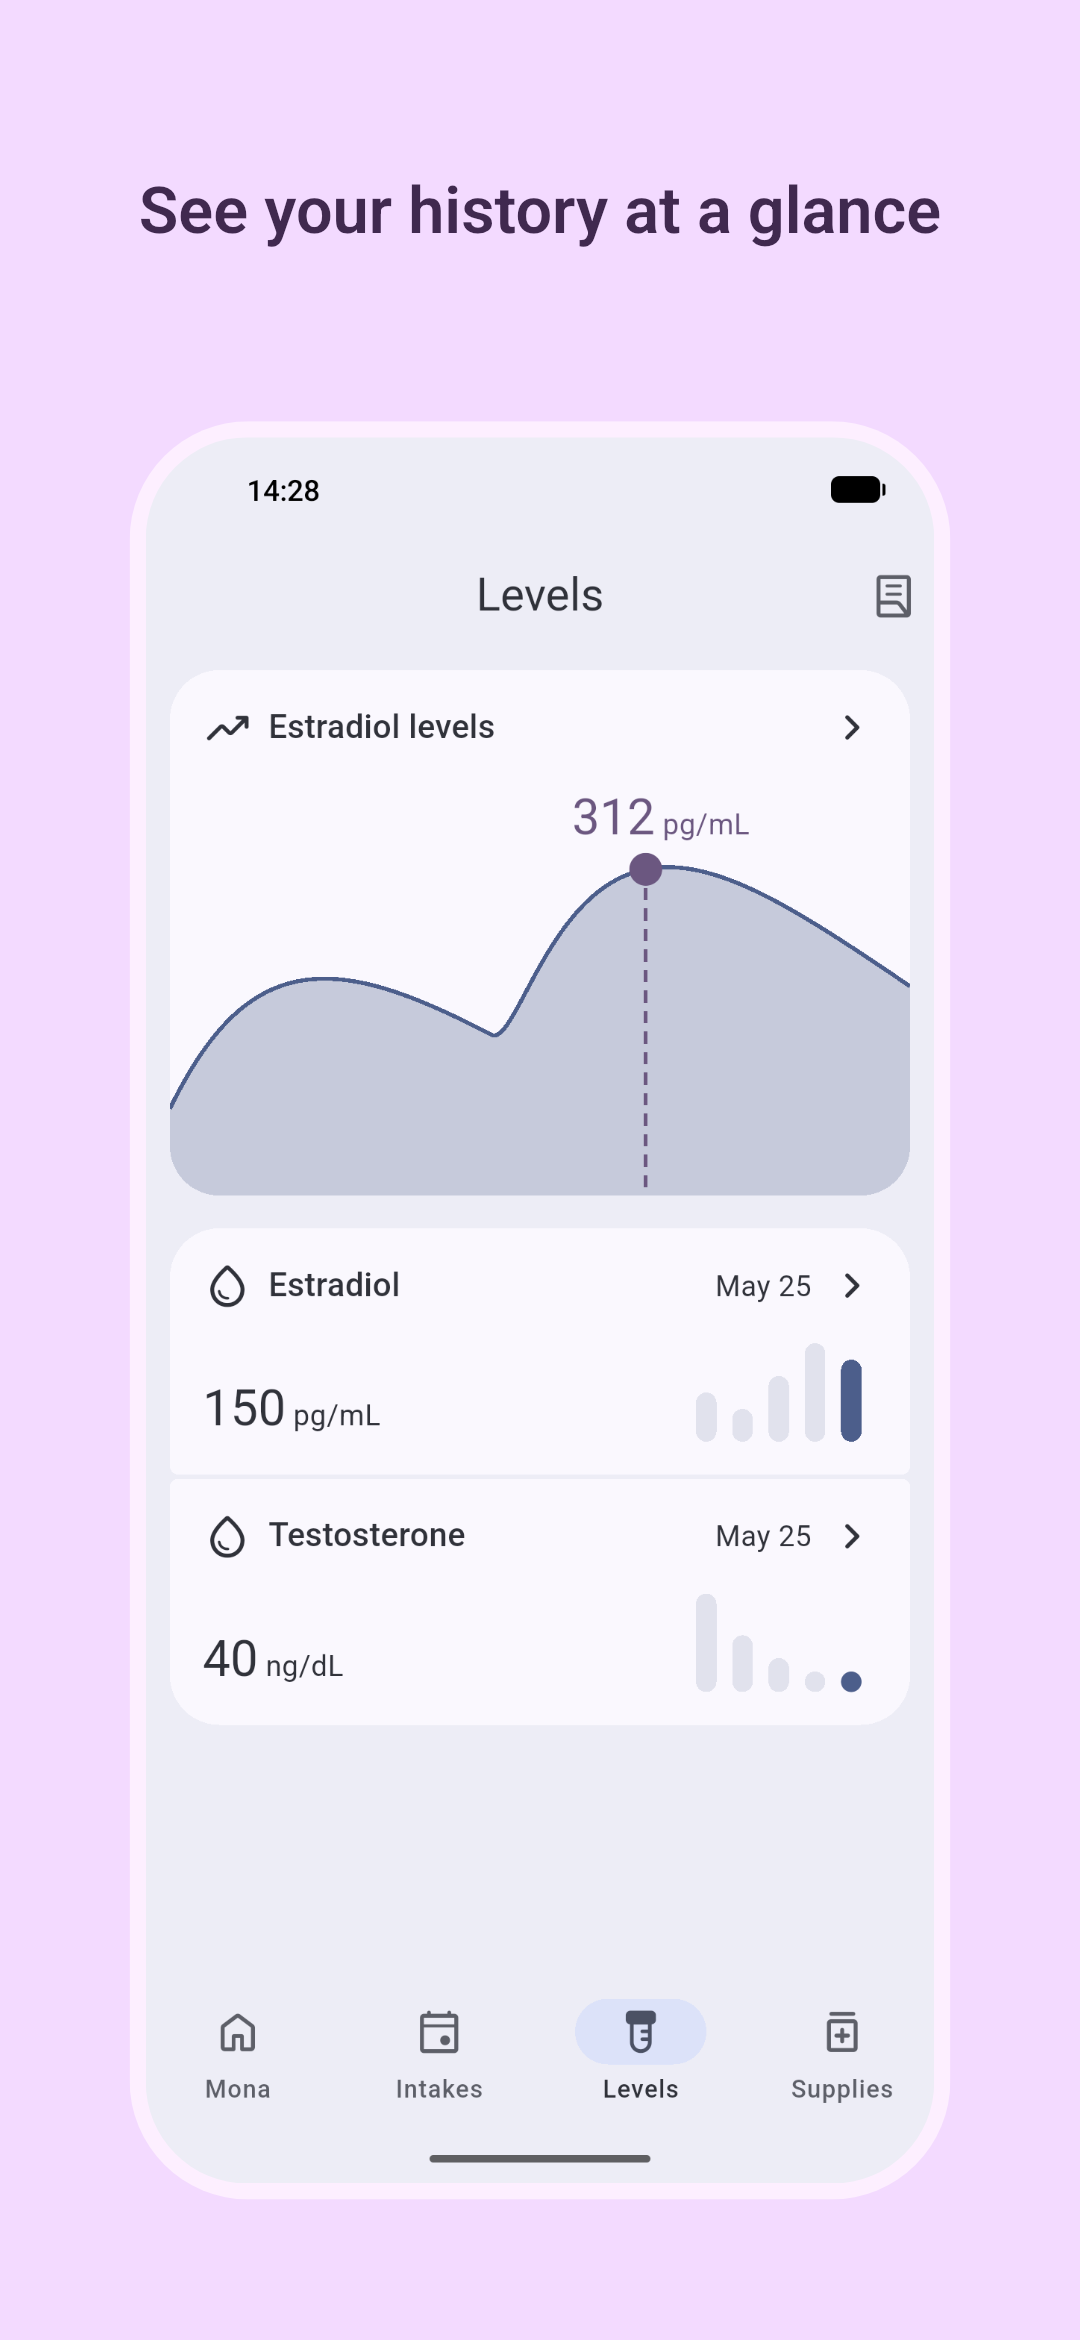
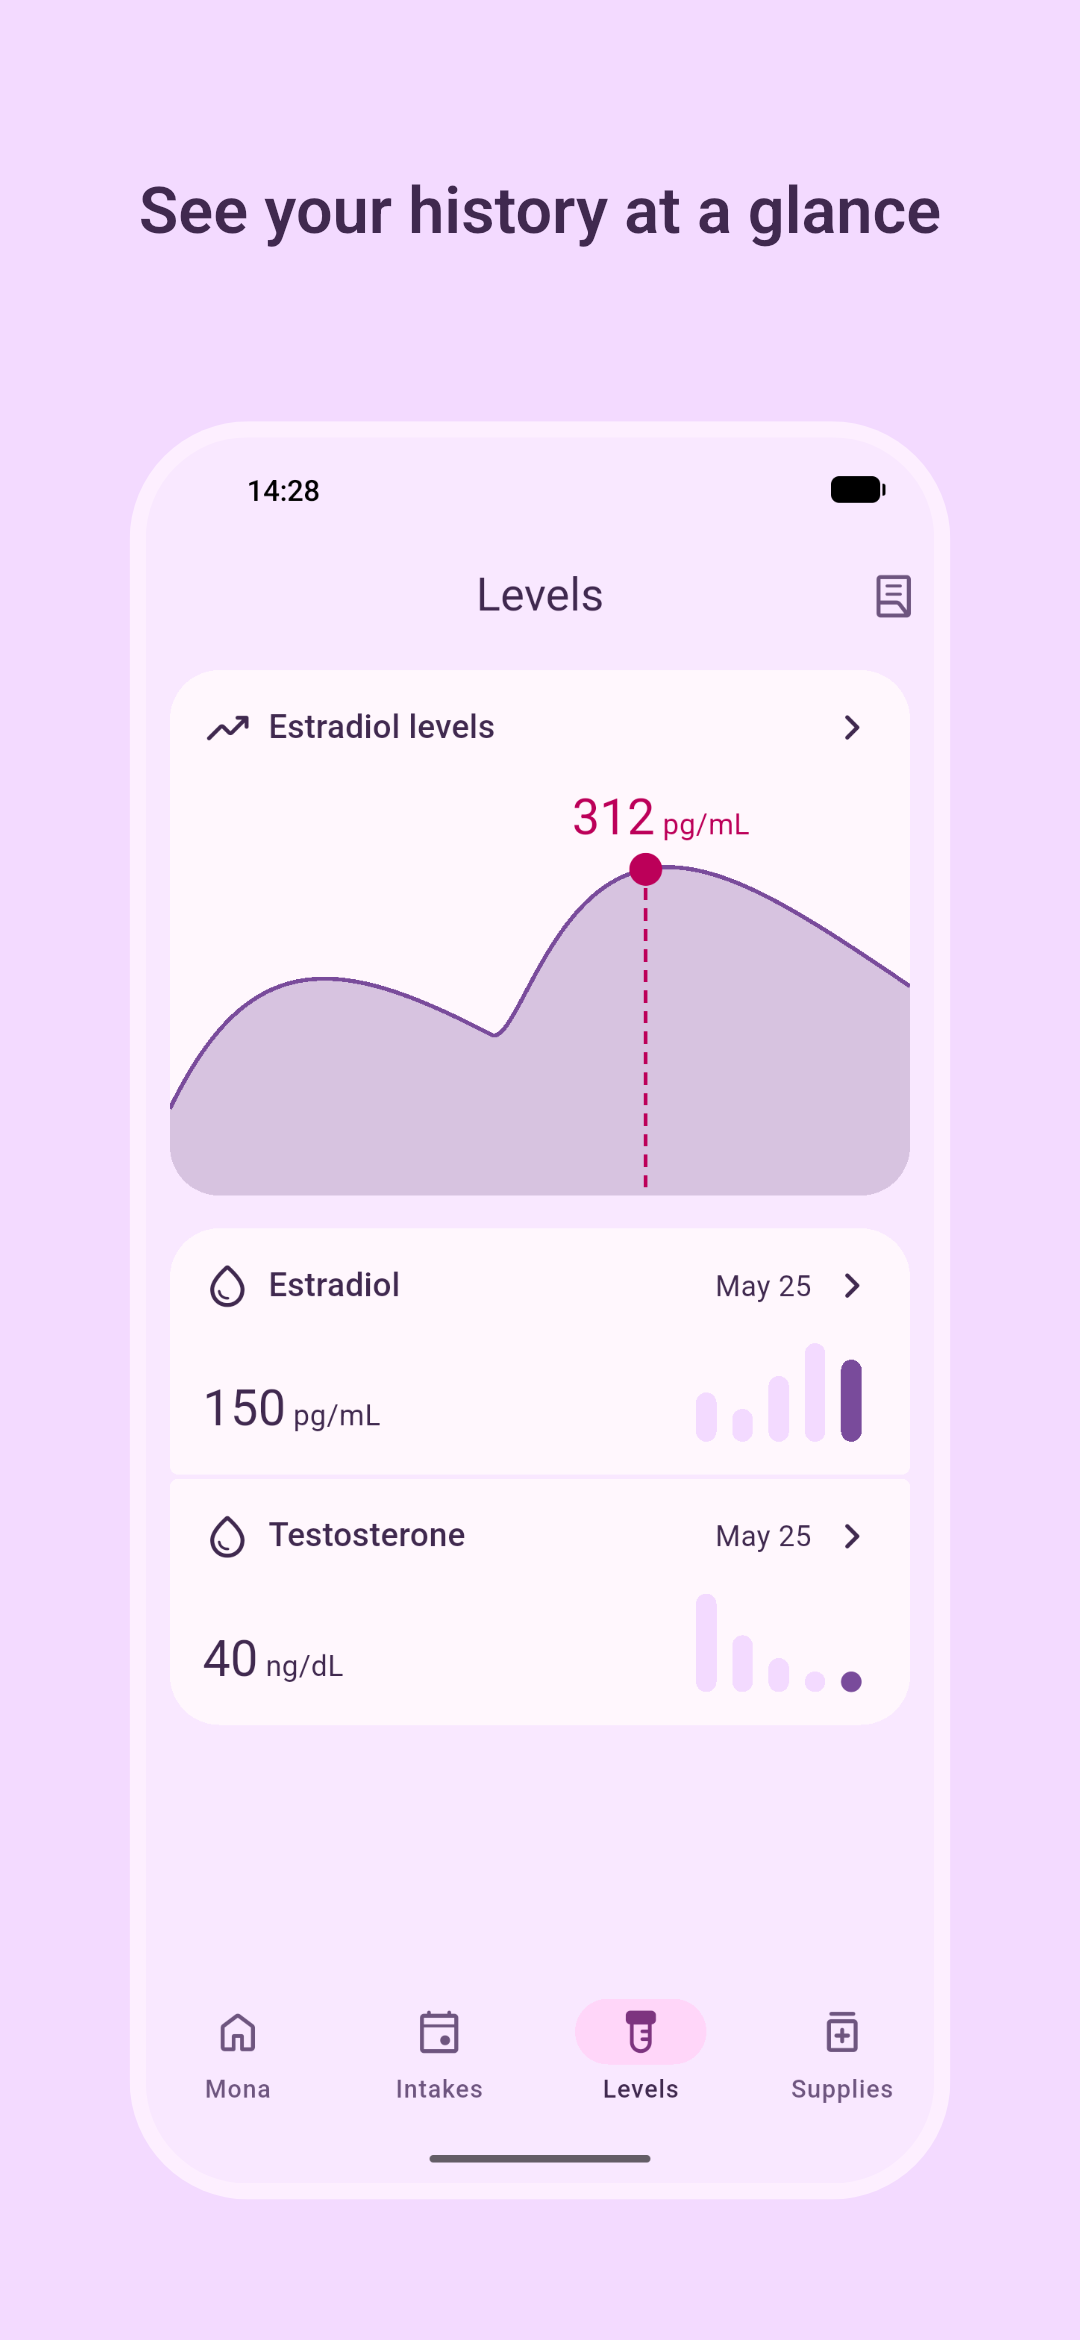
fix: force default colors for screenshots

diff --git a/lib/app.dart b/lib/app.dart
@@ -17,6 +17,9 @@ import 'package:mona/theme/material_ui_theme.dart';
 import 'package:provider/provider.dart';
 import 'ui/views/main_page.dart';
 
+const bool _forceDefaultColors = bool.fromEnvironment(
+    'SCREENSHOT_DEFAULT_COLORS'); // avoid dynamic colors when generating store screenshots
+
 class MonaApp extends StatefulWidget {
   const MonaApp({super.key});
 
@@ -117,8 +120,8 @@ class _MonaAppState extends State<MonaApp> with WidgetsBindingObserver {
     return DynamicColorBuilder(
       builder: (ColorScheme? lightDynamic, ColorScheme? darkDynamic) {
         final themes = context.read<AppThemeProvider>().buildThemeData(
-              systemLight: lightDynamic,
-              systemDark: darkDynamic,
+              systemLight: _forceDefaultColors ? null : lightDynamic,
+              systemDark: _forceDefaultColors ? null : darkDynamic,
             );
         return MaterialApp(
           title: 'Mona',
